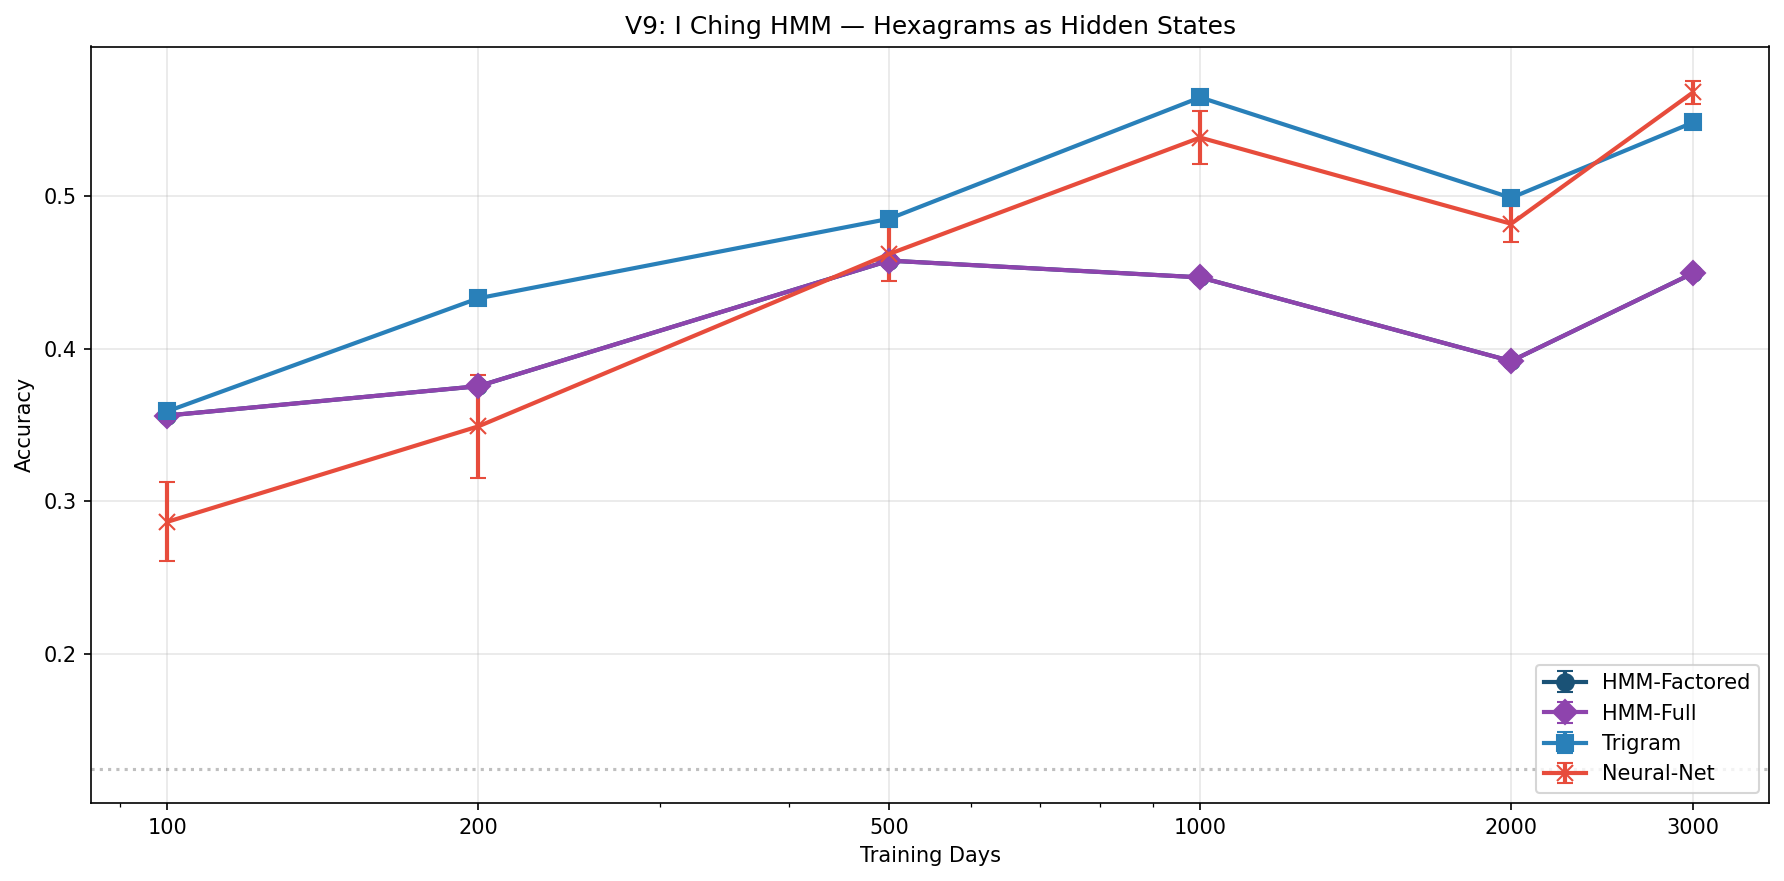
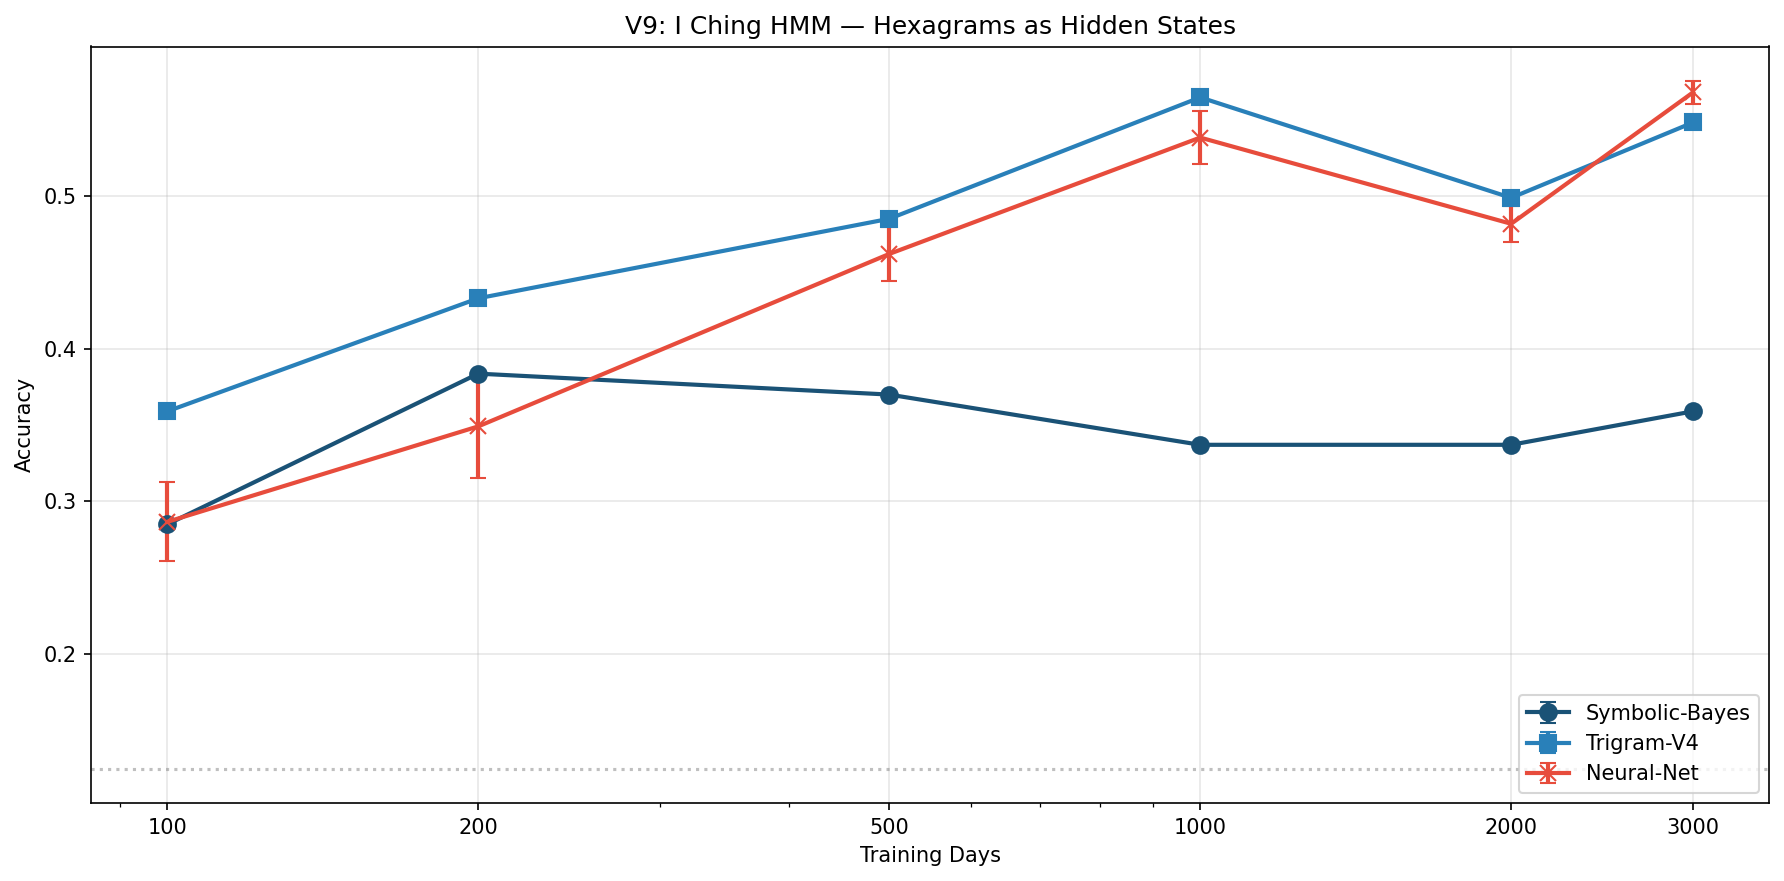
V9 final: 6 HMM variants all lose to TrigramV4

diff --git a/mvp/model.py b/mvp/model.py
@@ -722,6 +722,313 @@ class FactoredIChingHMM:
 
 
 
+# ============================================================================
+# 规则驱动易经 HMM — 爻变转移(确定) + 卦象→天气发射(学习)
+# ============================================================================
+
+# 五行元素分配
+WUXING_ELEMENT = ["金","土","木","木","水","火","土","金"]  # 乾坤震巽坎离艮兑
+WUXING_SHENG = {("木","火"),("火","土"),("土","金"),("金","水"),("水","木")}
+WUXING_KE   = {("木","土"),("土","水"),("水","火"),("火","金"),("金","木")}
+
+
+def build_rule_transition(self_prob=0.30, d1_prob=0.08, d2_prob=0.03, sheng_boost=1.5):
+    """
+    根据易经爻变规则构建确定性的64×64转移矩阵。
+    
+    转移权重基于:
+      1. Hamming距离 (爻变数): 自稳 > 1爻变 > 2爻变 > ...
+      2. 五行生克: 上/下卦五行相生时提升概率
+    """
+    T = np.zeros((N_HEXAGRAMS, N_HEXAGRAMS))
+    
+    for h in range(N_HEXAGRAMS):
+        h_bin = HEX_BIN[h]
+        u, l = HEX_TO_TRIGRAMS[h]
+        
+        for h2 in range(N_HEXAGRAMS):
+            h2_bin = HEX_BIN[h2]
+            d = bin(h_bin ^ h2_bin).count('1')
+            
+            if d == 0:    w = self_prob
+            elif d == 1:  w = d1_prob
+            elif d == 2:  w = d2_prob
+            elif d == 3:  w = d2_prob * 0.3
+            elif d == 6:  w = d1_prob * 0.3  # 错卦 (全变)
+            else:         w = 0.001
+            
+            # 五行生克调制
+            u2, l2 = HEX_TO_TRIGRAMS[h2]
+            eu, eu2 = WUXING_ELEMENT[u], WUXING_ELEMENT[u2]
+            el, el2 = WUXING_ELEMENT[l], WUXING_ELEMENT[l2]
+            
+            if (eu, eu2) in WUXING_SHENG: w *= sheng_boost
+            if (el, el2) in WUXING_SHENG: w *= sheng_boost
+            if (eu, eu2) in WUXING_KE:    w *= (2 - sheng_boost)
+            if (el, el2) in WUXING_KE:    w *= (2 - sheng_boost)
+            
+            T[h, h2] = max(w, 1e-6)
+    
+    T /= T.sum(axis=1, keepdims=True)
+    return T
+
+
+class RuleDrivenHMM:
+    """
+    规则驱动易经隐马尔可夫模型。
+    
+    转移矩阵: 从易经爻变+五行规则构建 (固定, 不学习)
+    发射矩阵: 64×8 Dirichlet (学习: 卦象→天气的映射)
+    
+    理念: 易经提供了"变化法则", 贝叶斯更新学习"法则如何显化为观测".
+    """
+    
+    def __init__(self, hex_affinities, emit_strength=3.0, 
+                 self_prob=0.30, d1_prob=0.08):
+        self.nh = N_HEXAGRAMS; self.nw = N_WEATHER
+        
+        # 固定转移矩阵 (不学习)
+        self.transition = build_rule_transition(self_prob, d1_prob)
+        
+        # 可学习的发射矩阵
+        self.emit_alpha = np.zeros((self.nh, self.nw))
+        for h in range(self.nh):
+            self.emit_alpha[h, :] = emit_strength * hex_affinities[h, :] + 1.0
+        self.prior_emit = self.emit_alpha.copy()
+        
+        self.belief = np.ones(self.nh) / self.nh
+        self.belief_history = []  # for debugging
+    
+    def forward_filter(self, observed):
+        """Forward 滤波: 固定转移 + 学习到的发射."""
+        emit_p = self.emit_alpha[:, observed] / self.emit_alpha.sum(axis=1)
+        pred_belief = self.belief @ self.transition
+        new_belief = emit_p * pred_belief
+        s = new_belief.sum()
+        if s > 1e-12:
+            self.belief = new_belief / s
+        else:
+            self.belief = np.ones(self.nh) / self.nh
+    
+    def predict(self, history):
+        if len(history) == 0:
+            return np.ones(self.nw) / self.nw
+        
+        emit_p = self.emit_alpha / self.emit_alpha.sum(axis=1, keepdims=True)
+        next_belief = self.belief @ self.transition
+        pred = next_belief @ emit_p
+        return pred / pred.sum()
+    
+    def update(self, history, observed, lr=1.0):
+        """只更新发射矩阵, 转移矩阵保持不变."""
+        if len(history) == 0:
+            return
+        
+        old_belief = self.belief.copy()
+        self.emit_alpha[:, observed] += lr * old_belief
+        self.forward_filter(observed)
+    
+    def belief_entropy(self):
+        """当前belief的熵 (衡量推理确定性)."""
+        b = np.clip(self.belief, 1e-12, 1.0)
+        return -np.sum(b * np.log(b))
+    
+    def param_count(self):
+        return self.nh * self.nw  # only emission is learned
+
+
+
+# ============================================================================
+# 八卦 HMM — 8 态隐马尔可夫, 观测=隐状态维度 (信息瓶颈消除)
+# ============================================================================
+
+class TrigramHMM:
+    """
+    八卦隐马尔可夫模型: 8 个三爻卦作为隐状态。
+    
+    转移矩阵: 8×8 (64参数, 五行规则先验 + 数据学习)
+    发射矩阵: 8×8 (64参数, 卦象→天气映射, 学习)
+    
+    关键: 8 态隐空间 + 8 类观测 → 信息瓶颈消除.
+    """
+    
+    def __init__(self, trigram_affinities, trans_strength=5.0, emit_strength=3.0):
+        self.nt = 8; self.nw = 8
+        
+        # 转移矩阵: 五行规则先验
+        self.trans_alpha = np.full((8,8), 1.0)
+        for t in range(8):
+            self.trans_alpha[t, t] = 1.0 + trans_strength * 0.40  # 自稳
+        sheng = [(3,5),(2,5),(5,1),(5,6),(1,0),(6,0),(0,4),(7,4),(4,3),(4,2)]
+        for a, b in sheng:
+            self.trans_alpha[a, b] += trans_strength * 0.06
+        ke = [(3,1),(1,4),(4,5),(5,0),(0,3),(6,4),(4,5),(5,7),(7,3),(2,6)]  # simplified
+        for a, b in [(3,1),(1,4),(4,5),(5,0),(0,3)]:
+            self.trans_alpha[a,b] += trans_strength * 0.02
+        
+        # 发射矩阵: 三爻天气先验
+        self.emit_alpha = np.zeros((self.nt, self.nw))
+        for t in range(self.nt):
+            self.emit_alpha[t,:] = emit_strength * trigram_affinities[t,:] + 1.0
+        
+        self.belief = np.ones(self.nt) / self.nt
+    
+    def forward_filter(self, observed):
+        emit_p = self.emit_alpha[:, observed] / self.emit_alpha.sum(axis=1)
+        trans_p = self.trans_alpha / self.trans_alpha.sum(axis=1, keepdims=True)
+        pred = self.belief @ trans_p
+        new_b = emit_p * pred
+        s = new_b.sum()
+        self.belief = new_b / s if s > 1e-12 else np.ones(self.nt)/self.nt
+    
+    def predict(self, history):
+        if len(history) == 0:
+            return np.ones(self.nw) / self.nw
+        trans_p = self.trans_alpha / self.trans_alpha.sum(axis=1, keepdims=True)
+        emit_p = self.emit_alpha / self.emit_alpha.sum(axis=1, keepdims=True)
+        next_b = self.belief @ trans_p
+        return (next_b @ emit_p)
+    
+    def update(self, history, observed, lr_tr=0.2, lr_em=1.0):
+        if len(history) == 0: return
+        old = self.belief.copy()
+        self.emit_alpha[:, observed] += lr_em * old
+        self.forward_filter(observed)
+        tr_update = lr_tr * np.outer(old, self.belief)
+        self.trans_alpha += tr_update
+    
+    def param_count(self):
+        return self.nt * self.nt + self.nt * self.nw
+
+
+
+# ============================================================================
+# 符号-贝叶斯双引擎模型 — 符号层做"观象→求变→玩辞", 贝叶斯层校准发射
+# ============================================================================
+
+class SymbolicBayesianModel:
+    """
+    符号-贝叶斯双引擎模型。
+    
+    符号引擎 (确定性, 不学习):
+      观象: 给定天气 → 找到匹配的卦象 (发射先验)
+      求变: 对于匹配卦象 → 计算爻变可达的变卦
+      玩辞: 变卦 → 预测天气分布 (发射后验)
+    
+    贝叶斯引擎 (学习):
+      用真实观测更新发射矩阵, 使"观象"越来越准。
+    
+    与纯HMM的关键区别: 符号引擎主动修剪状态空间,
+    每步只在 ~8 个卦象上推理, 而非全 64 个。
+    """
+    
+    def __init__(self, hex_affinities, emit_strength=3.0, top_k=8):
+        self.nh = N_HEXAGRAMS; self.nw = N_WEATHER; self.top_k = top_k
+        
+        # 可学习的发射矩阵 (仅此被更新)
+        self.emit_alpha = np.zeros((self.nh, self.nw))
+        for h in range(self.nh):
+            self.emit_alpha[h, :] = emit_strength * hex_affinities[h, :] + 1.0
+        
+        # 预计算爻变邻域: 每个卦象的 1-yao-change 邻居
+        self.yao_neighbors = self._build_yao_neighbors()
+        
+        # 信念: 当前卦象分布
+        self.belief = np.ones(self.nh) / self.nh
+    
+    def _build_yao_neighbors(self):
+        """预计算每个卦象的 1爻变邻居列表."""
+        neighbors = []
+        for h in range(N_HEXAGRAMS):
+            h_bin = HEX_BIN[h]
+            neigh = []
+            for h2 in range(N_HEXAGRAMS):
+                if h == h2: continue
+                if bin(HEX_BIN[h2] ^ h_bin).count('1') == 1:
+                    neigh.append(h2)
+            neighbors.append(neigh)
+        return neighbors
+    
+    def _symbolic_observe(self, observed):
+        """
+        符号引擎: 观象 — 找到与当前天气最匹配的卦象。
+        使用发射先验计算匹配度。
+        """
+        emit_p = self.emit_alpha[:, observed] / self.emit_alpha.sum(axis=1)
+        # 选 top_k 最匹配的卦象
+        top = np.argsort(emit_p)[-self.top_k:]
+        return top
+    
+    def _symbolic_transform(self, observed_hexes):
+        """
+        符号引擎: 求变 — 对每个匹配卦象, 计算可达的变卦。
+        可达 = 自身 + 1爻变邻居 + 错卦。
+        """
+        reachable = set()
+        for h in observed_hexes:
+            reachable.add(h)  # 自稳
+            reachable.update(self.yao_neighbors[h])  # 1爻变
+            reachable.add(CUO_GUA[h])  # 错卦
+        return np.array(sorted(reachable))
+    
+    def _symbolic_predict(self, observed, current_hexes, next_hexes):
+        """
+        符号引擎: 玩辞 — 从变卦的发射后验预测天气分布。
+        
+        信念流动: current_hexes → (爻变) → next_hexes → 发射 → 天气
+        """
+        emit_p = self.emit_alpha / self.emit_alpha.sum(axis=1, keepdims=True)
+        
+        # 当前卦象的信念 (归一化到 current_hexes)
+        curr_belief = np.zeros(self.nh)
+        curr_belief[current_hexes] = self.belief[current_hexes]
+        s = curr_belief.sum()
+        if s > 1e-12: curr_belief /= s
+        
+        # 爻变转移: curr → next (均匀分配到可达变卦)
+        next_belief = np.zeros(self.nh)
+        for h in current_hexes:
+            if curr_belief[h] < 1e-8: continue
+            targets = [h] + self.yao_neighbors[h] + [CUO_GUA[h]]
+            targets = [t for t in targets if t in next_hexes]
+            if not targets: continue
+            per_target = curr_belief[h] / len(targets)
+            for t in targets:
+                next_belief[t] += per_target
+        
+        # 从变卦发射到天气
+        pred = next_belief[next_hexes] @ emit_p[next_hexes]
+        return pred / pred.sum()
+    
+    def predict(self, history):
+        if len(history) == 0:
+            return np.ones(self.nw) / self.nw
+        
+        observed = history[-1]
+        current = self._symbolic_observe(observed)
+        next_h = self._symbolic_transform(current)
+        return self._symbolic_predict(observed, current, next_h)
+    
+    def update(self, history, observed, lr=1.0):
+        if len(history) == 0: return
+        
+        wp = history[-1] if len(history) >= 1 else observed
+        current = self._symbolic_observe(wp)
+        
+        # 贝叶斯更新: 增强匹配卦象的发射概率
+        self.emit_alpha[current, observed] += lr
+        
+        # 更新信念: 匹配卦象的信念提升
+        emit_p = self.emit_alpha[:, observed] / self.emit_alpha.sum(axis=1)
+        self.belief *= emit_p
+        s = self.belief.sum()
+        if s > 1e-12: self.belief /= s
+    
+    def param_count(self):
+        return self.nh * self.nw
+
+
+
 
 # ============================================================================
 # 对照组模型

diff --git a/mvp/experiment_v9.py b/mvp/experiment_v9.py
@@ -18,7 +18,7 @@ import json, urllib.request, os, csv, warnings
 warnings.filterwarnings("ignore")
 
 from model import (
-    IChingHMM, FactoredIChingHMM, TrigramBayesianModel, NeuralNetModel,
+    SymbolicBayesianModel, TrigramBayesianModel, NeuralNetModel,
     TRIGRAM_WEATHER, HEXAGRAM_AFFINITIES, N_WEATHER, WEATHER_TYPES,
 )
 
@@ -46,15 +46,14 @@ def to_seq(data):
 # 实验
 # ============================================================================
 
-LABELS = ["HMM-Factored","HMM-Full","Trigram","Neural-Net"]
+LABELS = ["Symbolic-Bayes","Trigram-V4","Neural-Net"]
 SIZES, EVAL_W = [100,200,500,1000,2000,3000], 365
 SEEDS = [42,123,456,789,1011]
 PS, TS, ES = 1.0, 10.0, 3.0  # prior_strength, trans_strength, emit_strength
 
 def make_models(seed):
     return [
-        FactoredIChingHMM(HEXAGRAM_AFFINITIES, trans_strength=TS, emit_strength=ES),
-        IChingHMM(HEXAGRAM_AFFINITIES, trans_strength=TS, emit_strength=ES),
+        SymbolicBayesianModel(HEXAGRAM_AFFINITIES, emit_strength=ES, top_k=8),
         TrigramBayesianModel(TRIGRAM_WEATHER, PS, 0.5),
         NeuralNetModel(ctx_win=3, hidden=32, lr=0.005, seed=seed),
     ], LABELS
@@ -84,8 +83,8 @@ def run(weather):
     return res
 
 def plot(res):
-    colors = {"HMM-Factored":"#1a5276","HMM-Full":"#8e44ad","Trigram":"#2980b9","Neural-Net":"#e74c3c"}
-    marks = {"HMM-Factored":"o","HMM-Full":"D","Trigram":"s","Neural-Net":"x"}
+    colors = {"Symbolic-Bayes":"#1a5276","Trigram-V4":"#2980b9","Neural-Net":"#e74c3c"}
+    marks = {"Symbolic-Bayes":"o","Trigram-V4":"s","Neural-Net":"x"}
 
     fig, ax = plt.subplots(figsize=(12,6))
     for lb in LABELS:
@@ -141,13 +140,11 @@ def main():
         print(row)
 
     N_k = 100
-    hf = np.mean(results[N_k]["HMM-Factored"])
-    hfull = np.mean(results[N_k]["HMM-Full"])
-    tri = np.mean(results[N_k]["Trigram"])
+    sb = np.mean(results[N_k]["Symbolic-Bayes"])
+    tri = np.mean(results[N_k]["Trigram-V4"])
     nn = np.mean(results[N_k]["Neural-Net"])
-    print(f"\n  @{N_k}天: Factored={hf:.1%}  Full={hfull:.1%}  Trigram={tri:.1%}  NN={nn:.1%}")
-    print(f"  Factored vs Full: Δ={hf-hfull:+.1%}")
-    print(f"  Factored vs Trigram: Δ={hf-tri:+.1%}")
+    print(f"\n  @{N_k}天: Symbolic={sb:.1%}  TrigramV4={tri:.1%}  NN={nn:.1%}")
+    print(f"  Symbolic vs Trigram: Δ={sb-tri:+.1%}")
 
     plot(results)
     save_csv(results)